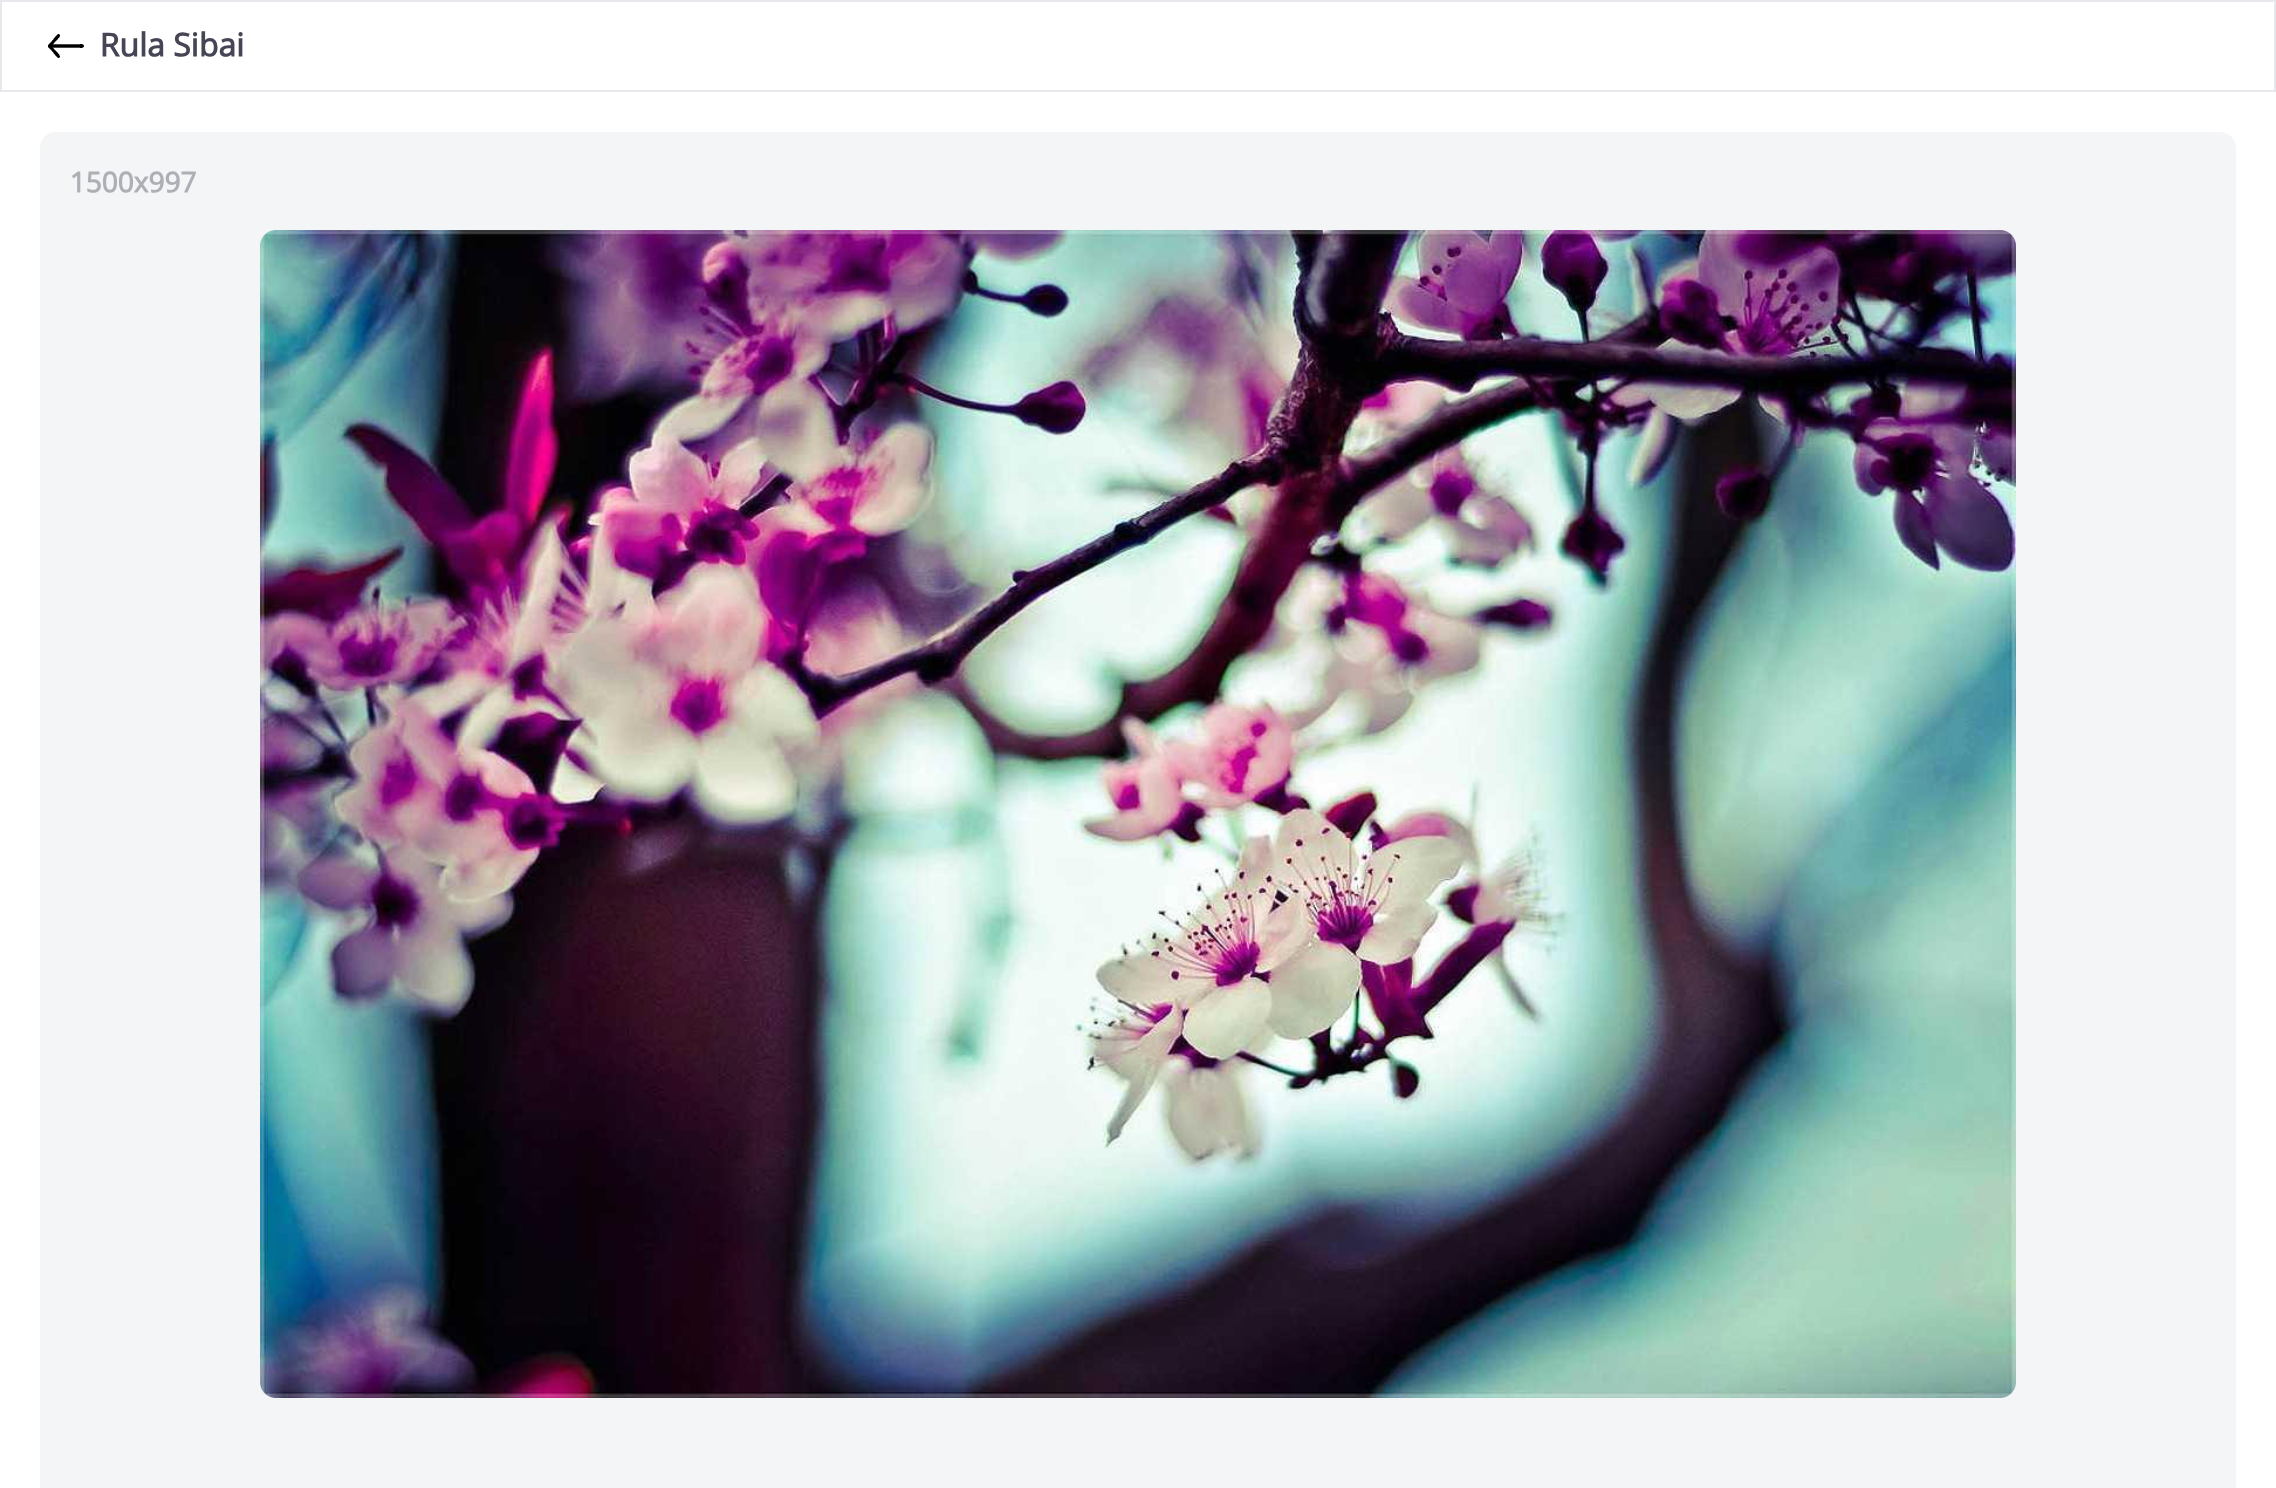
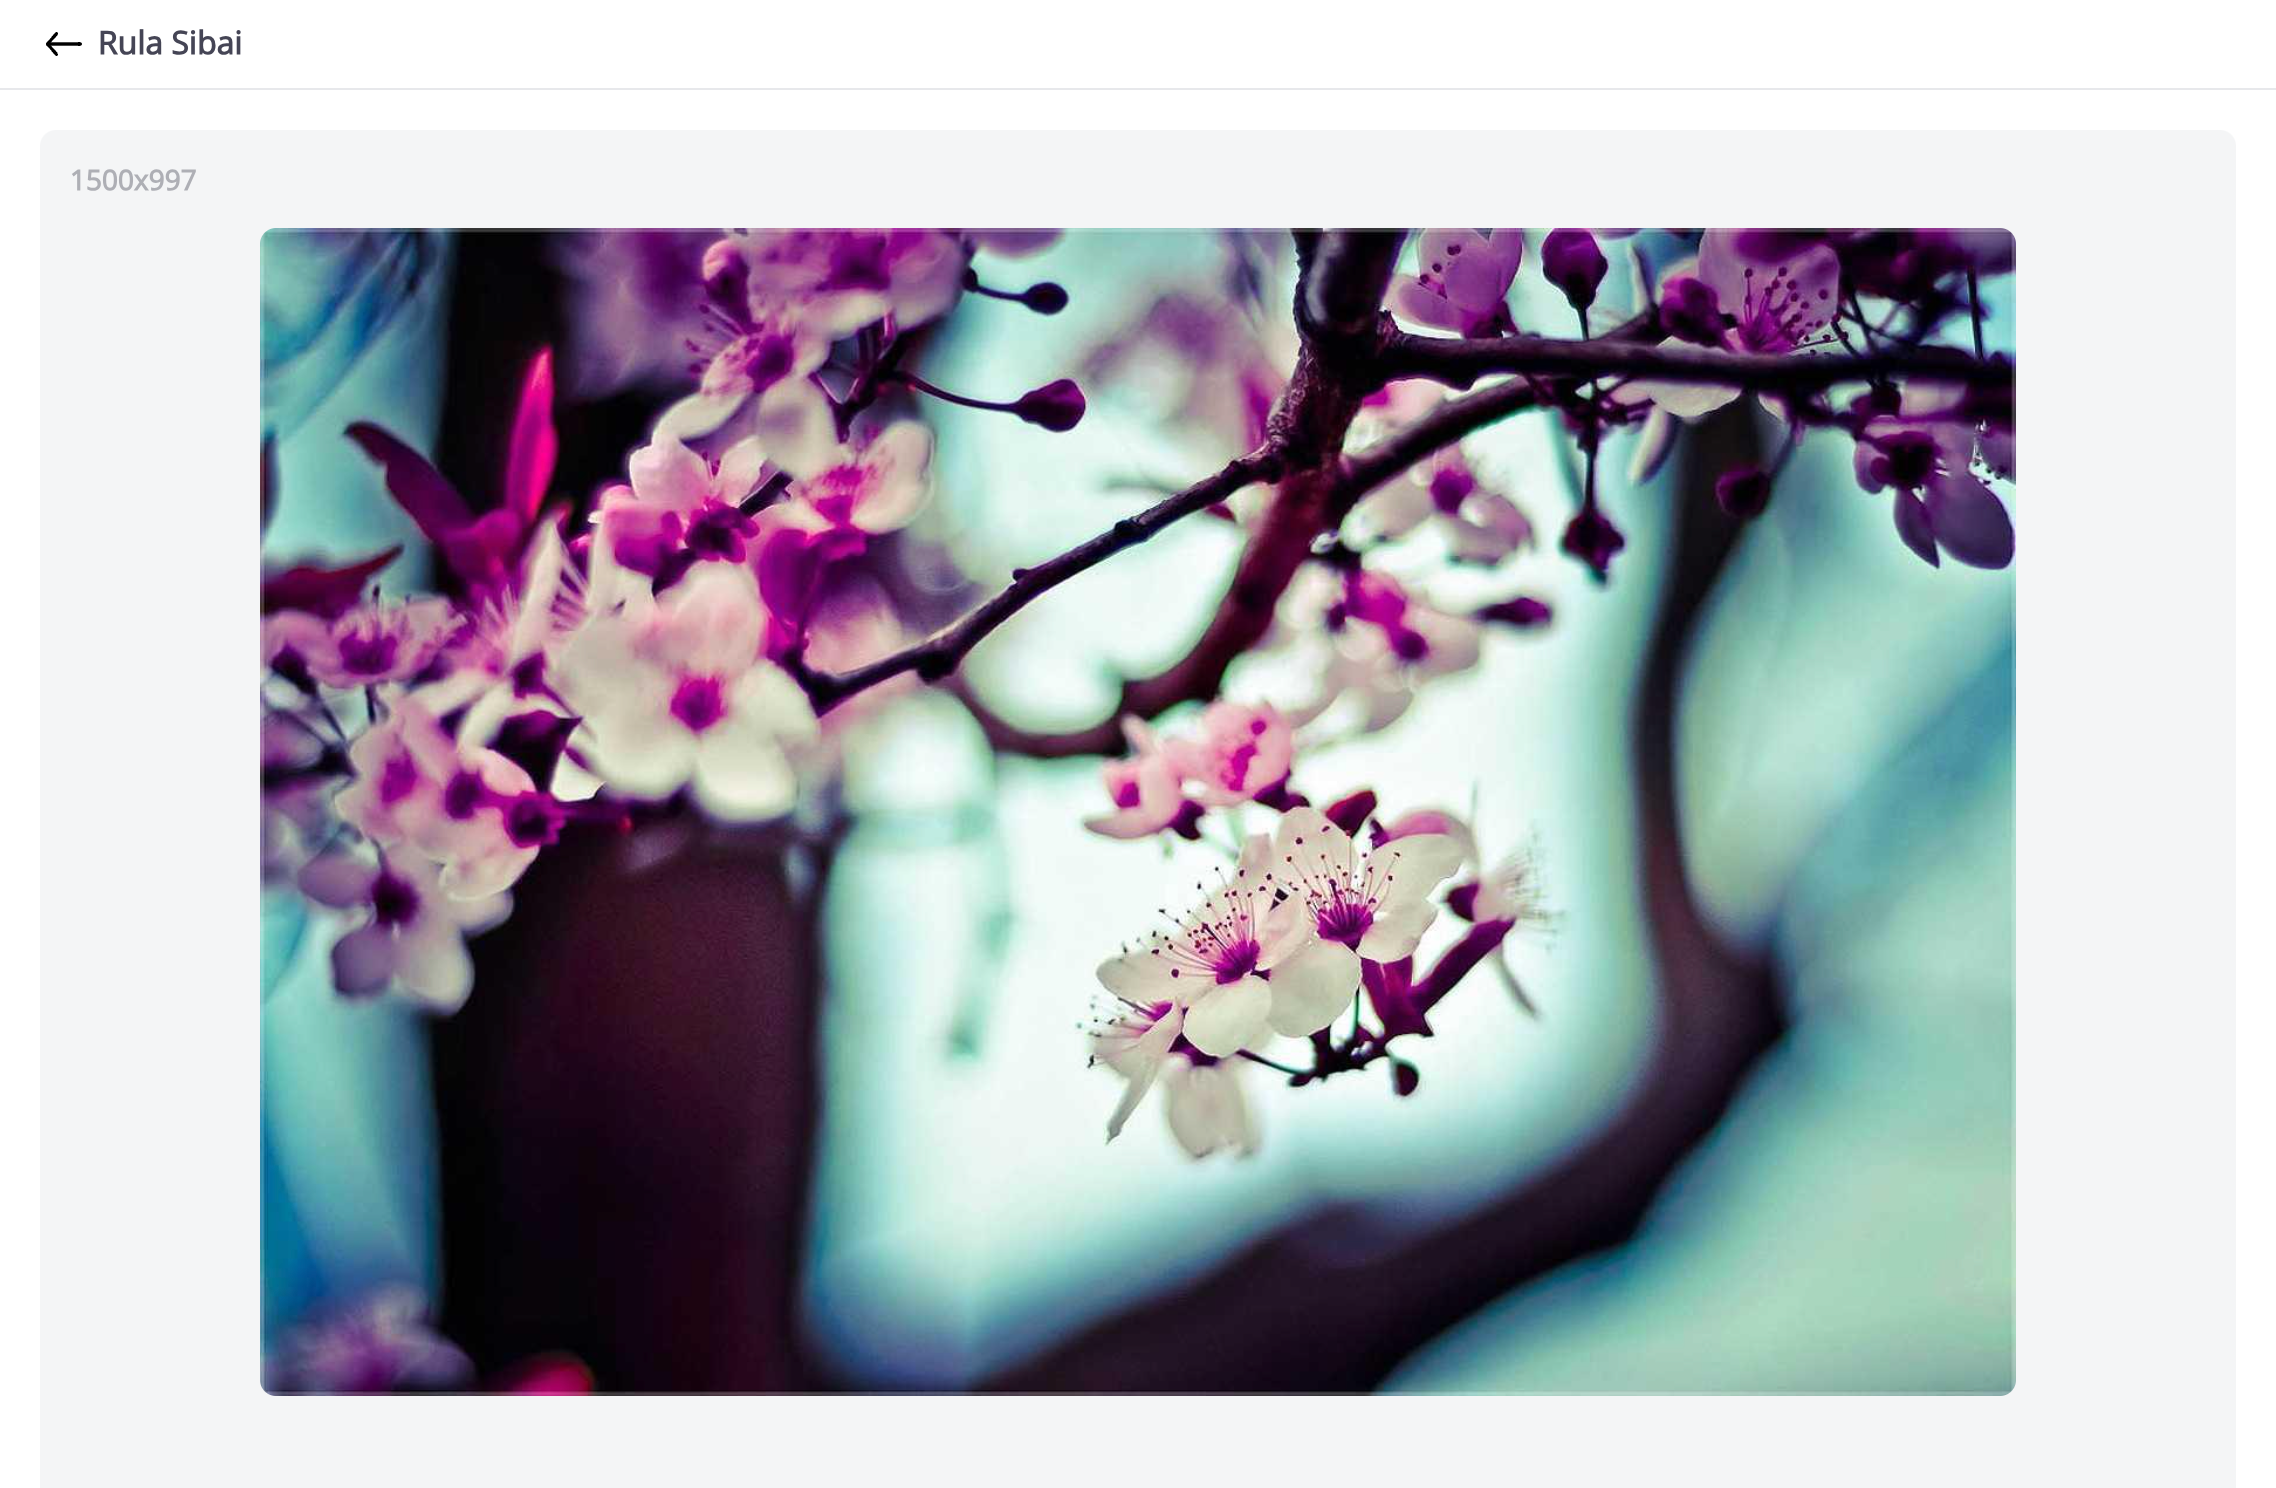
fix style and demo screenshot

diff --git a/src/components/ImgDetailsTopBar.vue b/src/components/ImgDetailsTopBar.vue
@@ -47,7 +47,7 @@ export default {
   display: flex;
   padding: 10px 20px;
   background-color: $background-color;
-  border: 1px solid $secondary-color;
+  border-bottom: 1px solid $secondary-color;
 
   .iconLeft {
     height: 24px;
